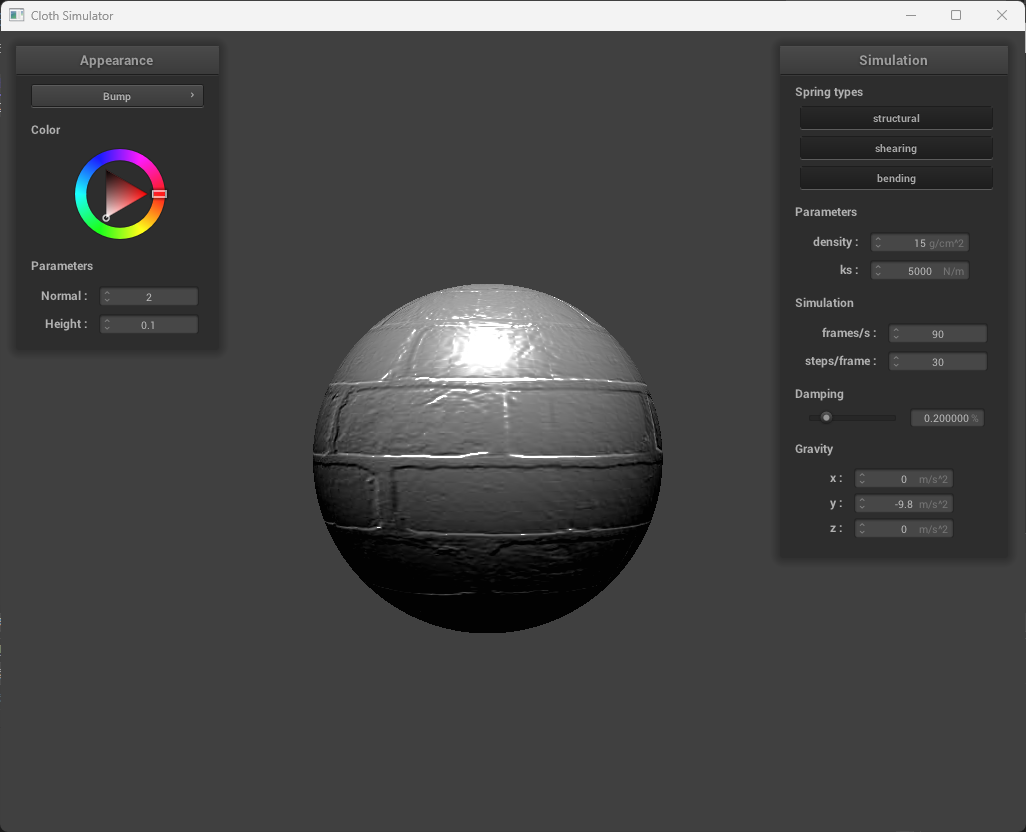
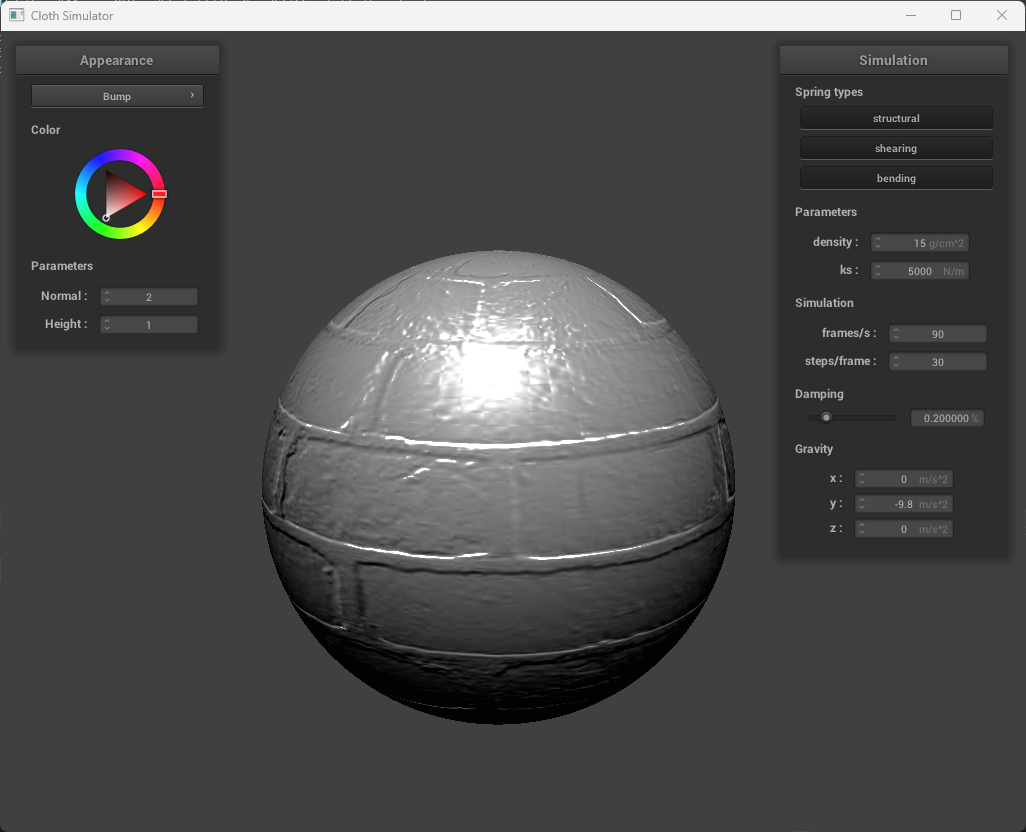
update all p5.5 pics

Changed region(s): [[0.2495, 0.2812, 0.7173, 0.875], [0.9981, 0.0312, 1.0, 0.0625]]

diff --git a/proj4/index.html b/proj4/index.html
@@ -481,7 +481,8 @@
 
     We run both mappings using <code>texture_3</code> offered by class. For bump mapping, it gives an illusino of bump/shade on the surface of the sphere and cloth. However, by rotating the 
     space, we can see the surface of both sphere and cloth is smooth. While for displacement mapping, the surfaces are no longer smooth, we can actually see the height displacement on the material.
-    After cloth falls on the sphere, the surface of cloth is still not smooth, bumping up against the sphere.
+    After cloth falls on the sphere, the surface of cloth is still not smooth, bumping up against the sphere. <br/>
+    <b>(Bump with normal 2 and height 1, Displacement with normal 100 and height 0.03)</b>
   </p>
   <div align="middle">
     <table style="width:100%">
@@ -534,7 +535,17 @@
               <img src="img/p5_disp_128.png" align="middle" width="400px" />
               <figcaption>Displacement mapping on sphere with -o 128 -a 128 (sphere.json)</figcaption>
           </td>
-      </tr>
+        </tr>
+        <tr align="center">
+          <td>
+              <img src="img/p5_disp_16_cloth.png" align="middle" width="400px" />
+              <figcaption>Displacement mapping on cloth with -o 16 -a 16 (sphere.json)</figcaption>
+          </td>
+          <td>
+              <img src="img/p5_disp_128_cloth.png" align="middle" width="400px" />
+              <figcaption>Displacement mapping on cloth with -o 128 -a 128 (sphere.json)</figcaption>
+          </td>
+        </tr>
     </table>
   </div>
   <br />
